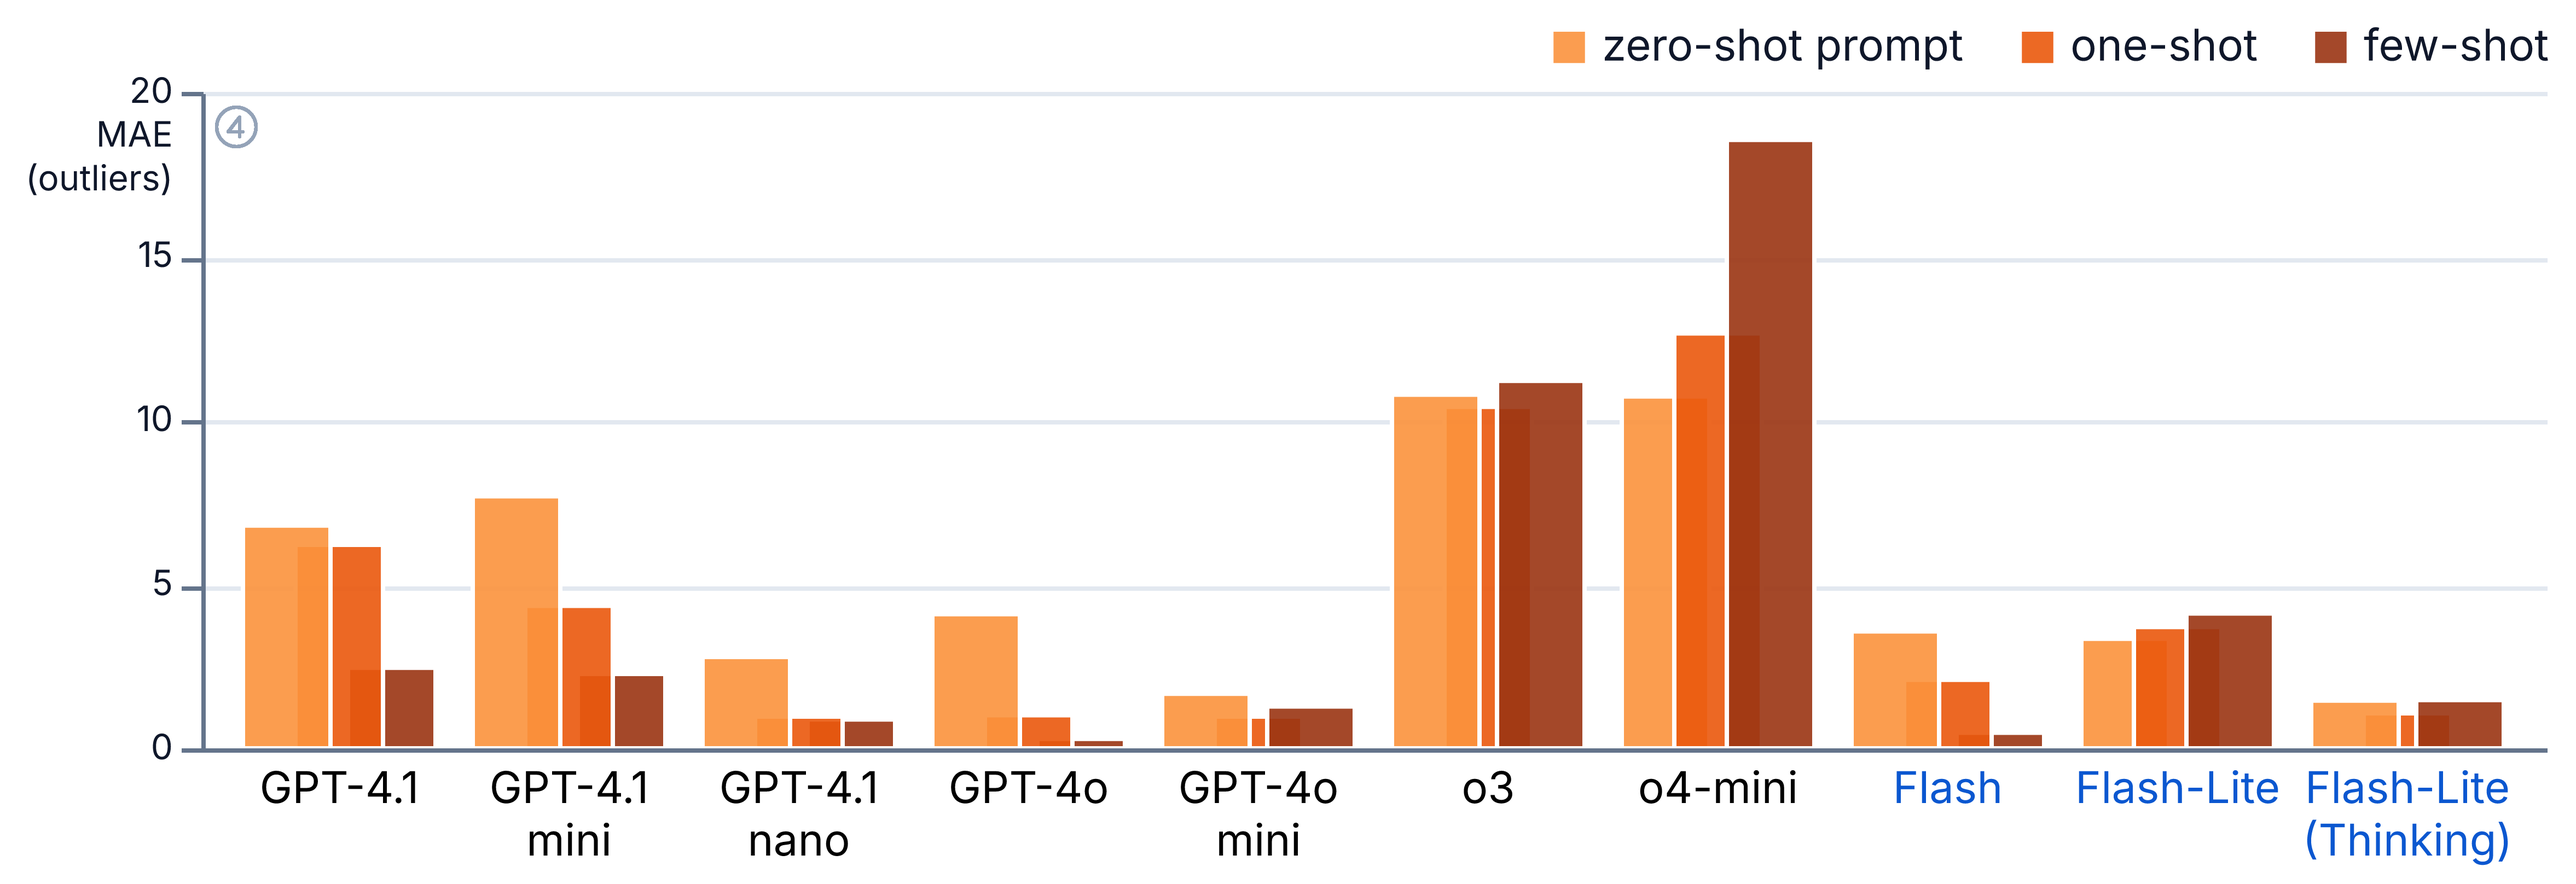
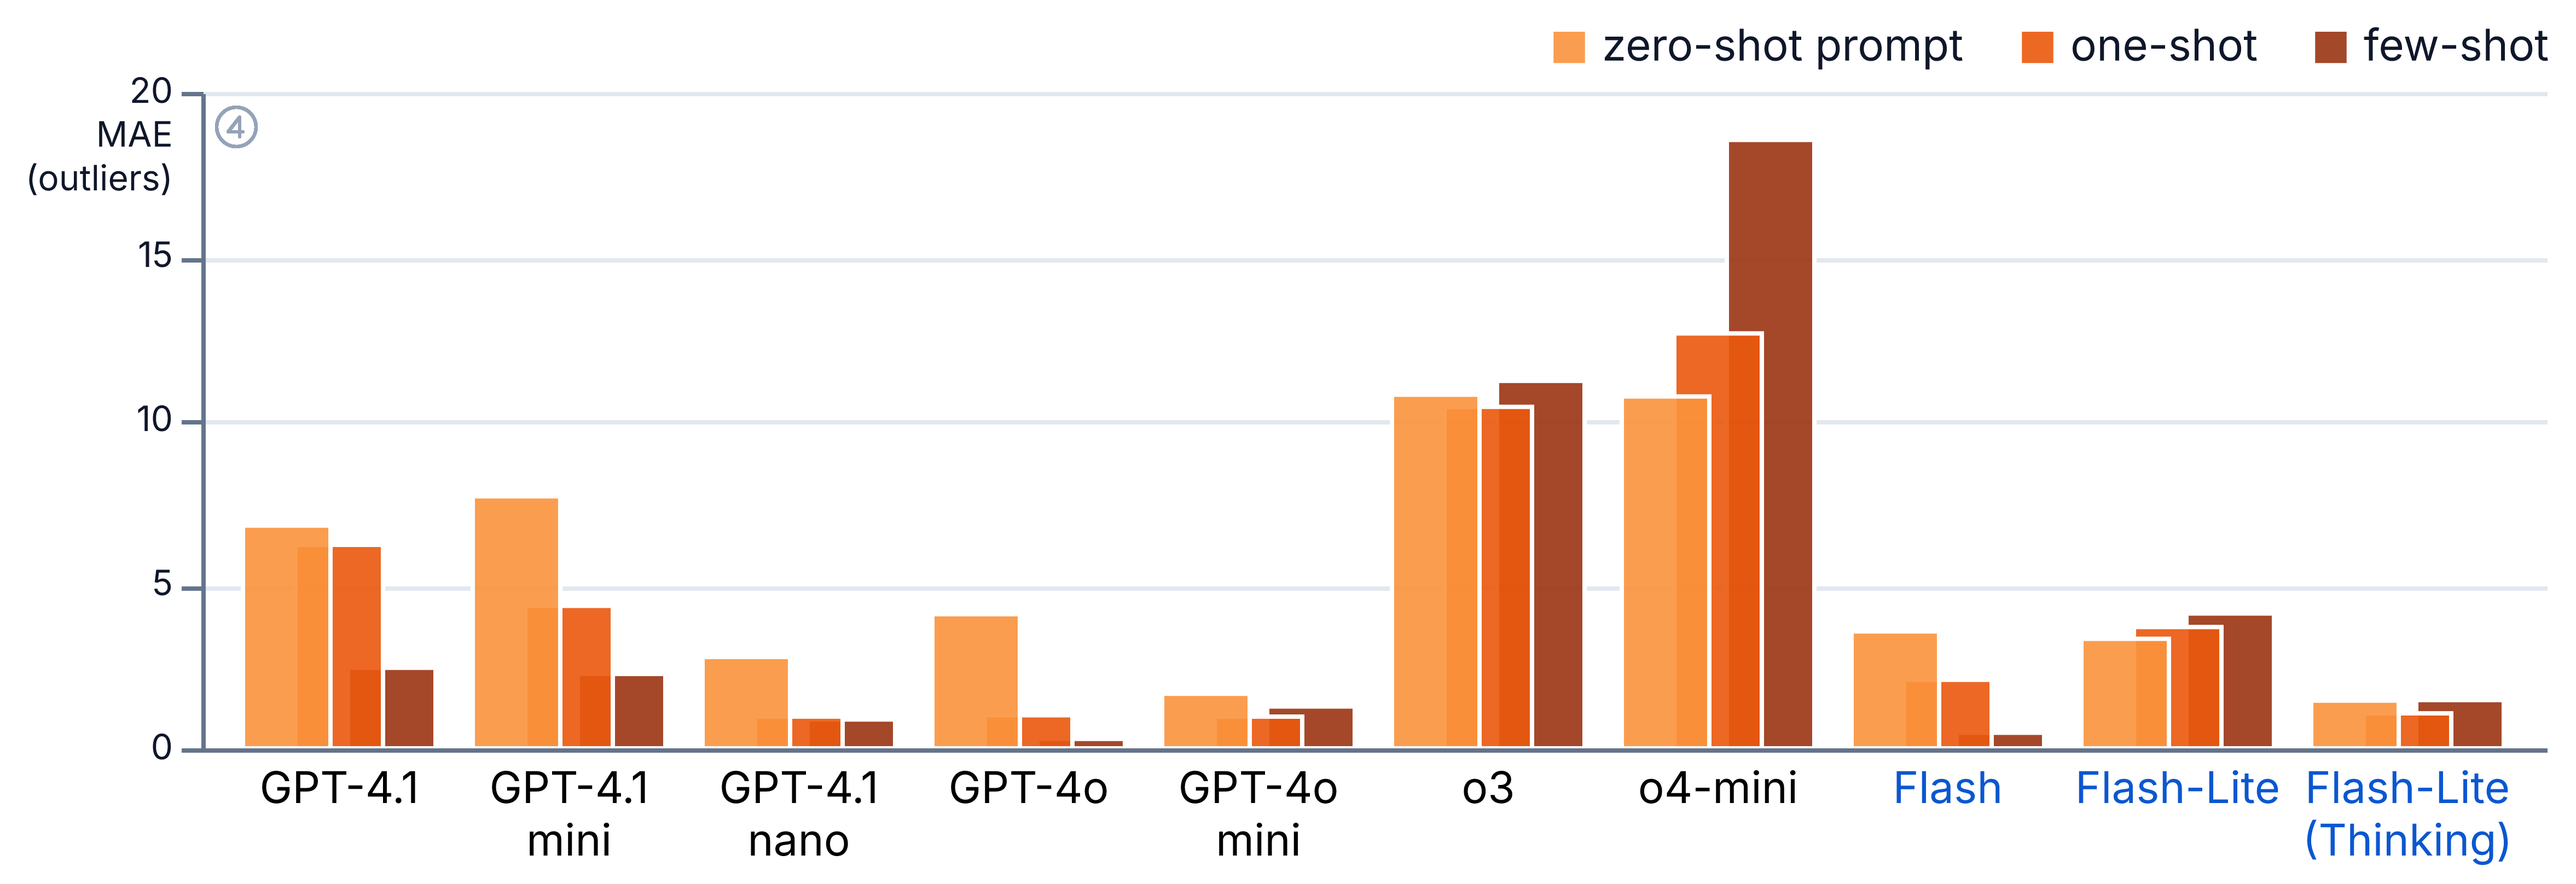
Fix bar ordering

diff --git a/benchmark/evaluate_counts.py b/benchmark/evaluate_counts.py
@@ -30,11 +30,12 @@ if __name__ == "__main__":
         results.groupby(["prompt_id", "model", "prompt_strategy"])[["response", "pred_response"]]
         .apply(lambda group: mean_absolute_error(group["response"], group["pred_response"]))
         .reset_index(name="mae")
-        .sort_values(["prompt_id", "mae"], ascending=True)
     )
 
     generate_grouped_bar_chart(prompt_strategy_mae, "cluster_count", "mae")
     generate_grouped_bar_chart(prompt_strategy_mae, "outlier_count", "mae")
+
+    prompt_strategy_mae = prompt_strategy_mae.sort_values(["prompt_id", "mae"], ascending=True)
 
     logger.info("MAE:\n{results}", results=prompt_strategy_mae)
     prompt_strategy_mae.to_csv(ALL_RESULTS / "counting_mae.csv", index=False)
